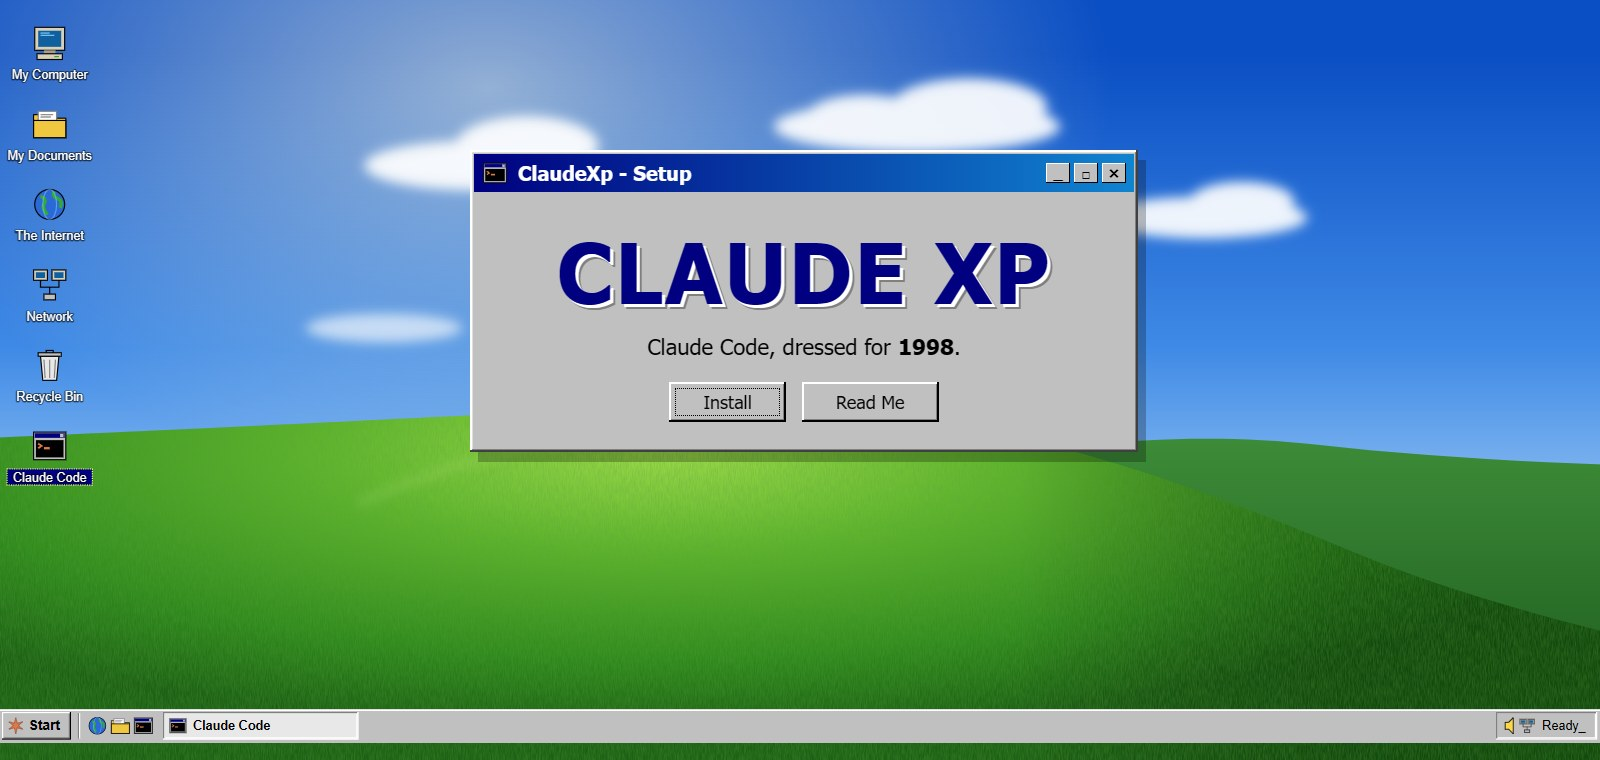
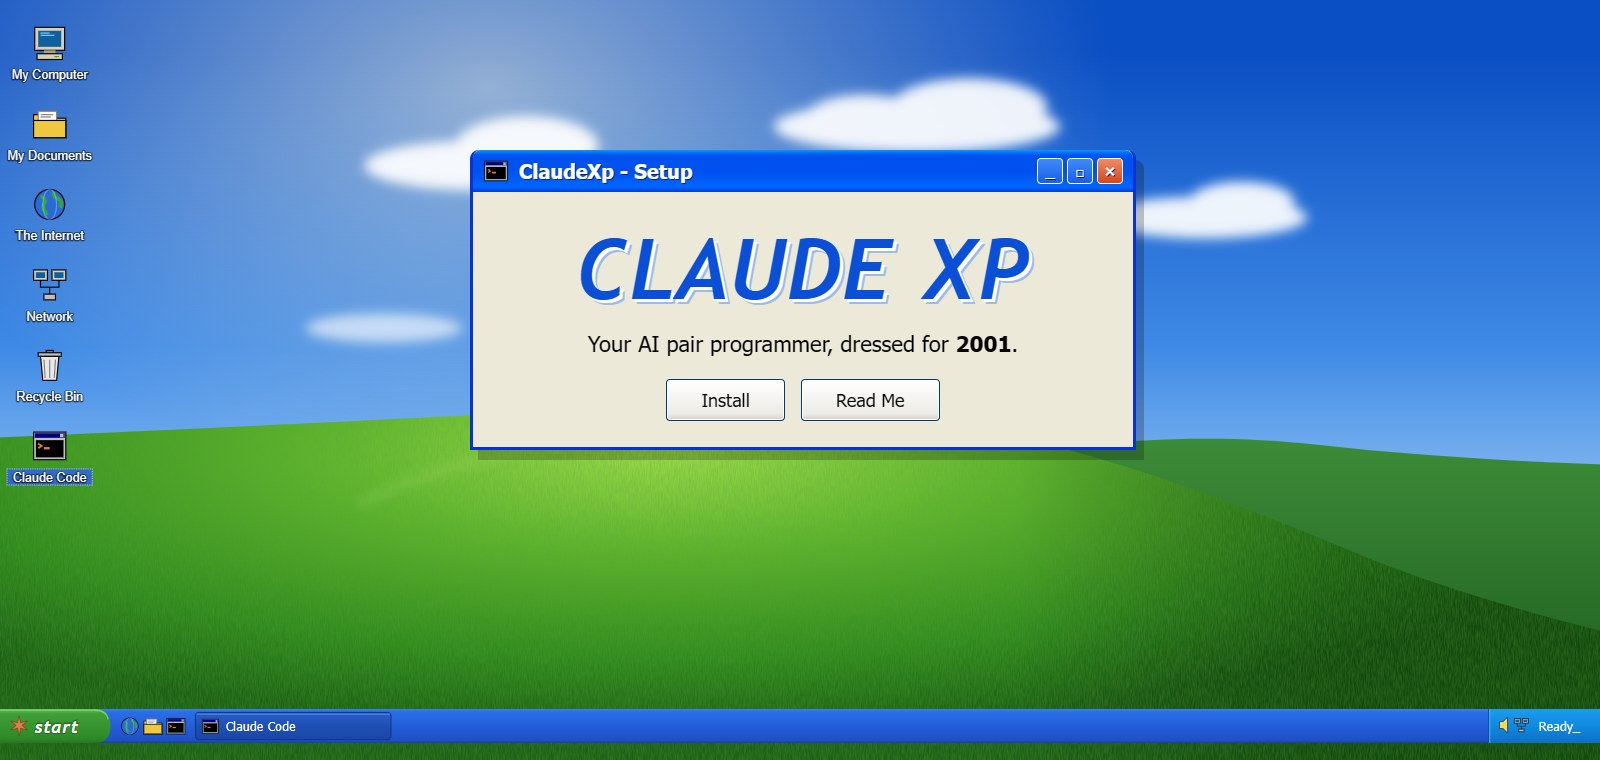
Restyle to an early-2000s desktop
Blue glossy taskbar with a rounded green start button and light-blue tray;
cream windows with rounded blue frames and red close boxes; rounded pale
buttons with blue selection; Blue / Olive Green / Silver / Royale schemes;
/win98-check is now /xp-check; new banner and README.

Changed region(s): [[0.2812, 0.1816, 0.7188, 0.6053], [0.0, 0.9079, 1.0, 0.9987], [0.0, 0.6053, 0.0625, 0.6658]]

diff --git a/hooks/look.ts b/hooks/look.ts
@@ -3,13 +3,14 @@ import type { ThemeSetArgs } from 'claude-code'
 import type { DeskScheme, DeskSettings, DeskWallpaper } from '../types'
 import { makeColors } from './make-colors.js'
 
-// Classic late-90s desktop color schemes. Light mode is the silver-chrome
-// scheme; dark mode is a shared "after hours" scheme, a CRT left on at night.
+// Desktop color schemes in the spirit of the early-2000s look: cream window
+// bodies with a blue, olive or silver accent. Light mode is this cream look;
+// dark mode is a shared "after hours" scheme, a monitor left on at night.
 const SCHEMES: Record<DeskScheme, { label: string; accent: string; s0: string; s1: string; s2: string }> = {
-  standard: { label: 'Standard', accent: '#000080', s0: '#c0c0c0', s1: '#d4d0c8', s2: '#f2f1ec' },
-  rose: { label: 'Rose', accent: '#800040', s0: '#cfb4b4', s1: '#ddc7c6', s2: '#f3e9e8' },
-  slate: { label: 'Slate', accent: '#2f4f6f', s0: '#a9b8c6', s1: '#c0ccd7', s2: '#e6ecf1' },
-  eggplant: { label: 'Eggplant', accent: '#4b2a6a', s0: '#b6aec2', s1: '#c9c2d3', s2: '#ece8f1' },
+  standard: { label: 'Blue (default)', accent: '#0a4fd6', s0: '#ece9d8', s1: '#f1efe2', s2: '#fbfaf5' },
+  rose: { label: 'Olive Green', accent: '#4f6b26', s0: '#e8ead8', s1: '#eff1e2', s2: '#fafbf5' },
+  slate: { label: 'Silver', accent: '#4a5a80', s0: '#e3e3ea', s1: '#ececf1', s2: '#f8f8fb' },
+  eggplant: { label: 'Royale', accent: '#1d3a9a', s0: '#e6e8f0', s1: '#eef0f6', s2: '#fafbfd' },
 }
 
 const SCHEME_KEYS = Object.keys(SCHEMES) as DeskScheme[]
@@ -70,7 +71,7 @@ export const lookFor = (s: DeskSettings): ThemeSetArgs => ({
   // Every wallpaper is a live scene drawn by the mod. The glass takes the app's
   // own panel color (dark in dark mode): thick enough, and frosted, that text
   // reads over the bright sky, thin enough that the meadow still shows.
-  backdrop: { scene: 'desktop98', glass: { blur: 6, opacity: 0.5 } },
+  backdrop: { scene: 'desktopxp', glass: { blur: 6, opacity: 0.5 } },
 })
 
 // ---------- the desktop scene: original pixel-art icons and a taskbar ----------
@@ -113,7 +114,7 @@ export const ICONS: Record<string, string> = {
 const iconAt = (name: string, x: number, y: number, label: string, selected = false): string => {
   const w = label.length * 6.2 + 6
   return `<g transform="translate(${x},${y})"><g transform="translate(22,0)">${ICONS[name]}</g>
-<rect x="${38 - w / 2}" y="36" width="${w}" height="14" fill="${selected ? '#000080' : 'none'}" ${selected ? 'stroke="#ffff80" stroke-dasharray="1 1"' : ''}/>
+<rect x="${38 - w / 2}" y="36" width="${w}" height="14" fill="${selected ? '#316ac5' : 'none'}" ${selected ? 'stroke="#9fb9e8" stroke-dasharray="1 1"' : ''}/>
 <text x="38" y="47" text-anchor="middle" fill="#fff" stroke="#000" stroke-opacity=".55" stroke-width="2.4" paint-order="stroke" stroke-linejoin="round" font-family="sans-serif" font-size="11">${label}</text></g>`
 }
 
@@ -214,16 +215,25 @@ export const sceneSvg = (s: DeskSettings): string => {
     : ''
   const taskbar = s.taskbar
     ? `<g class="pin-b"><g transform="translate(0,${H})">
-<rect x="-1000" y="-34" width="${W + 2000}" height="34" fill="#c0c0c0"/><rect x="-1000" y="-34" width="${W + 2000}" height="1" fill="#dfdfdf"/><rect x="-1000" y="-33" width="${W + 2000}" height="1" fill="#fff"/>
-<g class="pin-l"><g transform="translate(2,-31) scale(1.15)">
-<g>${bevel(0, 0, 60, 24)}<g transform="translate(4,4) scale(.5)">${ICONS.spark}</g><text x="23" y="16" font-family="sans-serif" font-weight="bold" font-size="12">Start</text></g>
-<rect x="66" y="1" width="1" height="22" fill="#808080"/><rect x="67" y="1" width="1" height="22" fill="#fff"/>
-<g transform="translate(74,3) scale(.56)">${ICONS.globe}</g><g transform="translate(94,3) scale(.56)">${ICONS.folder}</g><g transform="translate(114,3) scale(.56)">${ICONS.terminal}</g>
-<g transform="translate(140,0)">${bevel(0, 0, 170, 24, true, '#e8e8e8')}<g transform="translate(5,4) scale(.5)">${ICONS.terminal}</g><text x="26" y="16" font-family="sans-serif" font-weight="bold" font-size="11">Claude Code</text></g>
+<defs>
+<linearGradient id="tbar" x1="0" y1="0" x2="0" y2="1"><stop offset="0" stop-color="#3a81f3"/><stop offset=".08" stop-color="#2a6ee8"/><stop offset=".5" stop-color="#245edb"/><stop offset=".92" stop-color="#1f50c4"/><stop offset="1" stop-color="#1941a5"/></linearGradient>
+<linearGradient id="tstart" x1="0" y1="0" x2="0" y2="1"><stop offset="0" stop-color="#5fbf55"/><stop offset=".15" stop-color="#3f9f36"/><stop offset=".85" stop-color="#2f8a28"/><stop offset="1" stop-color="#2a7520"/></linearGradient>
+<linearGradient id="ttray" x1="0" y1="0" x2="0" y2="1"><stop offset="0" stop-color="#1c9cf0"/><stop offset=".5" stop-color="#0f8ae0"/><stop offset="1" stop-color="#0d6fc4"/></linearGradient>
+<linearGradient id="ttask" x1="0" y1="0" x2="0" y2="1"><stop offset="0" stop-color="#2a5fc9"/><stop offset=".5" stop-color="#1e4fb4"/><stop offset="1" stop-color="#1a47a6"/></linearGradient>
+</defs>
+<rect x="-1000" y="-34" width="${W + 2000}" height="34" fill="url(#tbar)"/>
+<g class="pin-l"><g transform="translate(0,-34) scale(1.15)">
+<path d="M0 0H82Q96 0 96 14.8Q96 29.6 82 29.6H0z" fill="url(#tstart)"/>
+<path d="M0 1H81Q93 1 94 9" stroke="#9be08f" stroke-opacity=".7" fill="none"/>
+<g transform="translate(7,5) scale(.6)">${ICONS.spark}</g>
+<text x="30" y="20.5" font-family="Trebuchet MS, Tahoma, sans-serif" font-style="italic" font-weight="bold" font-size="16" fill="#fff" stroke="#1b5a14" stroke-opacity=".6" stroke-width="1.6" paint-order="stroke">start</text>
+<g transform="translate(104,6) scale(.56)">${ICONS.globe}</g><g transform="translate(124,6) scale(.56)">${ICONS.folder}</g><g transform="translate(144,6) scale(.56)">${ICONS.terminal}</g>
+<g transform="translate(170,3)"><rect width="170" height="23.6" rx="3" fill="url(#ttask)" stroke="#0f3a8f"/><rect x="1" y="1" width="168" height="1" fill="#6a9cf0" opacity=".7"/><g transform="translate(5,4) scale(.5)">${ICONS.terminal}</g><text x="26" y="16" font-family="Tahoma, sans-serif" font-size="11" fill="#fff">Claude Code</text></g>
 </g></g>
-<g class="pin-r"><g transform="translate(${W - 104},-31) scale(1.15)">${bevel(0, 0, 88, 24, true)}
-<path d="M8 9h3l4-4v14l-4-4H8z" fill="#ffd84a" stroke="#000" stroke-width=".7"/><g transform="translate(20,5) scale(.44)">${ICONS.network}</g>
-<text x="40" y="16" font-family="sans-serif" font-size="11">Ready<tspan class="blink">_</tspan></text></g></g>
+<g class="pin-r"><g transform="translate(${W - 112},-34) scale(1.15)">
+<rect width="100" height="29.6" fill="url(#ttray)"/><rect width="1" height="29.6" fill="#0a4fa8"/><rect x="1" width="1" height="29.6" fill="#5cc0ff" opacity=".7"/>
+<path d="M10 11h3l4-4v14l-4-4h-3z" fill="#ffd84a" stroke="#1a3a6a" stroke-width=".7"/><g transform="translate(22,7) scale(.44)">${ICONS.network}</g>
+<text x="44" y="19" font-family="Tahoma, sans-serif" font-size="11" fill="#fff">Ready<tspan class="blink">_</tspan></text></g></g>
 </g></g>`
     : ''
   return `<svg xmlns="http://www.w3.org/2000/svg" viewBox="0 0 ${W} ${H}" preserveAspectRatio="xMidYMid slice">
@@ -241,7 +251,7 @@ export const previewSvg = (s: DeskSettings): string => {
     ? `<g transform="translate(36,20) scale(.4)">${ICONS.computer}</g><g transform="translate(36,38) scale(.4)">${ICONS.folder}</g><g transform="translate(36,56) scale(.4)">${ICONS.bin}</g>`
     : ''
   const bar = s.taskbar
-    ? '<rect x="32" y="108" width="136" height="8" fill="#c0c0c0"/><rect x="33" y="109" width="16" height="6" fill="#d4d0c8" stroke="#000" stroke-width=".5"/>'
+    ? '<rect x="32" y="108" width="136" height="8" fill="#245edb"/><path d="M32 108h16q4 0 4 4t-4 4H32z" fill="#3c9a2f"/><rect x="152" y="108" width="16" height="8" fill="#0f8ae0"/>'
     : ''
   return `<svg xmlns="http://www.w3.org/2000/svg" viewBox="0 0 200 156" width="200" height="156">
 <defs>${SKY}</defs>
@@ -252,7 +262,7 @@ ${
       : `<rect x="32" y="16" width="136" height="100" fill="${fill}" stroke="#606060"/>`
   }
 ${icons}
-<rect x="70" y="34" width="70" height="46" fill="${chromeOf(s.scheme)}" stroke="#000"/><rect x="71" y="35" width="68" height="8" fill="${accentOf(s.scheme)}"/>
+<rect x="70" y="34" width="70" height="46" rx="3" fill="${chromeOf(s.scheme)}" stroke="#0831d9"/><path d="M70 42v-5q0-3 3-3h64q3 0 3 3v5z" fill="${accentOf(s.scheme)}"/><rect x="131" y="35.5" width="6" height="5" rx="1" fill="#e0502a"/>
 <rect x="74" y="50" width="62" height="24" fill="#fff" stroke="#808080"/>
 ${bar}
 <rect x="150" y="122" width="8" height="3" fill="#2a2"/>

diff --git a/hooks/register.tsx b/hooks/register.tsx
@@ -30,19 +30,26 @@ const monitorMenu = atom({ plugin: 'claudexp', key: 'monitorMenu' } as const, nu
 const monitorView = atom({ plugin: 'claudexp', key: 'monitorView' } as const, { bars: true, log: true } as DeskMonitorView, { shape: 'view-1' })
 
 // Classic window chrome colors, fixed so the windows read the same in both modes.
-const SILVER = '#c0c0c0'
-const SHADOW = '#808080'
+// XP-style window chrome: cream bodies, blue frames, soft blue-gray edges.
+const SILVER = '#ece9d8'
+const SHADOW = '#7f9db9'
+const FRAME = '#0831d9'
+const BUTTON_EDGE = '#003c74'
+const BUTTON_FACE = '#fbfbf8'
+const SELECTED = '#316ac5'
+const CLOSE_RED = '#e0502a'
+const START_GREEN = '#3c9a2f'
 const WHITE = '#ffffff'
 const INK = '#000000'
 const NAVY = '#000080'
 
-// A Win98 push button drawn by the mod: black text on silver, navy when
-// active. The app's own button styles go pale in dark mode on these boxes.
+// An XP push button drawn by the mod: black text on a pale rounded face,
+// blue when active. The app's own button styles go pale in dark mode on these boxes.
 type WinButtonArgs = { id: string; label: string; isActive?: boolean; onPress: () => unknown }
 const winButton = (ui: ReturnType<EngineInterface['ui']['resolve']>, a: WinButtonArgs) => {
   const { Box, Text, Button } = ui
   return (
-    <Box key={a.id} backgroundColor={a.isActive ? NAVY : SILVER} borderStyle="single" borderColor={a.isActive ? NAVY : SHADOW} paddingX={1}>
+    <Box key={a.id} backgroundColor={a.isActive ? SELECTED : BUTTON_FACE} borderStyle="round" borderColor={a.isActive ? SELECTED : BUTTON_EDGE} paddingX={1}>
       <Button key={`${a.id}-b`} plain label={a.label} onPress={a.onPress}>
         <Text color={a.isActive ? WHITE : INK} weight={a.isActive ? 'bold' : undefined}>
           {a.label}
@@ -52,7 +59,21 @@ const winButton = (ui: ReturnType<EngineInterface['ui']['resolve']>, a: WinButto
   )
 }
 
-// Which surface last asked for the backdrop, for /win98-check.
+// The XP red close box for a window's title bar.
+const closeBox = (ui: ReturnType<EngineInterface['ui']['resolve']>, id: string, onPress: () => unknown) => {
+  const { Box, Text, Button } = ui
+  return (
+    <Box key={id} backgroundColor={CLOSE_RED} borderStyle="round" borderColor={WHITE} paddingX={1}>
+      <Button key={`${id}-b`} plain label="Close" onPress={onPress}>
+        <Text color={WHITE} weight="bold">
+          ✕
+        </Text>
+      </Button>
+    </Box>
+  )
+}
+
+// Which surface last asked for the backdrop, for /xp-check.
 let lastBackdrop: string | undefined
 
 const sanitize = (raw: unknown): DeskSettings => {
@@ -106,7 +127,7 @@ export const register: Register = on => {
     await $.command.register({ name: 'display', description: 'ClaudeXp: open Display Properties (wallpaper, color scheme, effects)' })
     await $.command.register({ name: 'sysmon', description: 'ClaudeXp: open the System Monitor window' })
     await $.command.register({ name: 'startmenu', description: 'ClaudeXp: toggle the Start menu above the prompt' })
-    await $.command.register({ name: 'win98-check', description: 'ClaudeXp: show which screens this session draws on and whether the theme reached them' })
+    await $.command.register({ name: 'xp-check', description: 'ClaudeXp: show which screens this session draws on and whether the theme reached them' })
 
     if (stored.startup) {
       void openMonitor($)
@@ -131,7 +152,7 @@ export const register: Register = on => {
     return { text: 'Start menu toggled.' }
   })
 
-  on('command.run', { command: 'win98-check' }, async $ => {
+  on('command.run', { command: 'xp-check' }, async $ => {
     const surfaces = await $.session.surfaces()
     const s = await read($, settings)
     const set = await $.theme.set(lookFor(s))
@@ -193,7 +214,7 @@ export const register: Register = on => {
     const icon = (name: string) => (isGraphic ? <Svg source={iconSvg(name, 16)} alt="" width={16} height={16} /> : null)
 
     const item = (key: string, name: string, label: string, run: () => Promise<void> | void) => (
-      <Box key={`row-${key}`} flexDirection="row" alignItems="center" gap="xs" paddingX={1} hover={{ backgroundColor: accentOf(s.scheme) }}>
+      <Box key={`row-${key}`} flexDirection="row" alignItems="center" gap="xs" paddingX={1} hover={{ backgroundColor: '#c1d2ee' }}>
         {icon(name)}
         <Button
           key={key}
@@ -203,14 +224,16 @@ export const register: Register = on => {
             await update($, isStartOpen, () => false)
             await run()
           }}
-        />
+        >
+          <Text color={INK}>{label}</Text>
+        </Button>
       </Box>
     )
 
     return (
       <Box flexDirection="column">
         {isOpen && (
-          <Box flexDirection="row" borderStyle="single" borderColor={INK} backgroundColor={SILVER}>
+          <Box flexDirection="row" borderStyle="round" borderColor={FRAME} backgroundColor={SILVER}>
             <Box backgroundColor={accentOf(s.scheme)} paddingX={1} justifyContent="flex-end">
               <Text color={WHITE} weight="bold">
                 ClaudeXp
@@ -231,7 +254,13 @@ export const register: Register = on => {
         )}
         <Box flexDirection="row" alignItems="center" gap="xs">
           {icon('spark')}
-          <Button key="start" label={isOpen ? 'Start ▾' : 'Start'} variant={isOpen ? 'primary' : 'secondary'} onPress={() => update($, isStartOpen, v => !v)} />
+          <Box key="start-box" backgroundColor={START_GREEN} borderStyle="round" borderColor={isOpen ? WHITE : '#2b7a22'} paddingX={1}>
+            <Button key="start" plain label="start" onPress={() => update($, isStartOpen, v => !v)}>
+              <Text color={WHITE} weight="bold" italic>
+                {isOpen ? 'start ▾' : 'start'}
+              </Text>
+            </Button>
+          </Box>
           <Button key="qs-monitor" label="System Monitor" dimColor onPress={() => openMonitor($)} />
           <Button key="qs-display" label="Display" dimColor onPress={() => openDisplay($)} />
         </Box>
@@ -280,7 +309,7 @@ export const register: Register = on => {
     )
 
     return (
-      <Box flexDirection="column" borderStyle="single" borderColor={INK} backgroundColor={SILVER}>
+      <Box flexDirection="column" borderStyle="round" borderColor={FRAME} backgroundColor={SILVER}>
         <Box flexDirection="row" backgroundColor={accentOf(s.scheme)} paddingX={1} alignItems="center" gap="xs">
           {isGraphic && <Svg source={iconSvg('monitor', 16)} alt="" width={16} height={16} />}
           <Box flexGrow={1}>
@@ -288,7 +317,7 @@ export const register: Register = on => {
               System Monitor
             </Text>
           </Box>
-          <Button key="mon-close" plain label="✕" onPress={() => $.ui.close({ id: MONITOR })} />
+          {closeBox(ui, 'mon-close', () => $.ui.close({ id: MONITOR }))}
         </Box>
         <Box flexDirection="row" paddingX={1} gap={1} alignItems="center">
           {menuButton('file', 'File')}
@@ -437,7 +466,7 @@ export const register: Register = on => {
       )
 
     return (
-      <Box flexDirection="column" borderStyle="single" borderColor={INK} backgroundColor={SILVER}>
+      <Box flexDirection="column" borderStyle="round" borderColor={FRAME} backgroundColor={SILVER}>
         <Box flexDirection="row" backgroundColor={accentOf(saved.scheme)} paddingX={1} alignItems="center" gap="xs">
           {isGraphic && <Svg source={iconSvg('display', 16)} alt="" width={16} height={16} />}
           <Box flexGrow={1}>
@@ -445,7 +474,7 @@ export const register: Register = on => {
               Display Properties
             </Text>
           </Box>
-          <Button key="dp-x" plain label="✕" onPress={() => $.ui.close({ id: DISPLAY })} />
+          {closeBox(ui, 'dp-x', () => $.ui.close({ id: DISPLAY }))}
         </Box>
         <Box flexDirection="row" paddingX={1} paddingTop={1} gap="xs">
           {tabButton('background', 'Background')}

diff --git a/README.md b/README.md
@@ -5,16 +5,16 @@
 <h1 align="center">🖥 ClaudeXp</h1>
 
 <p align="center">
-  <strong>IT'S NOT A BUG, IT'S A FEATURE OF 1998! 💾</strong>
+  <strong>IT'S NOT A BUG, IT'S A FEATURE OF 2001! 💿</strong>
 </p>
 
 <p align="center">
-  <a href="#-install"><img src="https://img.shields.io/badge/Claude%20Code-mod-000080?style=for-the-badge" alt="Claude Code mod"></a>
-  <img src="https://img.shields.io/badge/surface-desktop%20%7C%20terminal-008080?style=for-the-badge" alt="Desktop and terminal">
-  <img src="https://img.shields.io/badge/chrome-silver%20%23c0c0c0-c0c0c0?style=for-the-badge" alt="Silver chrome">
+  <a href="#-install"><img src="https://img.shields.io/badge/Claude%20Code-mod-0a4fd6?style=for-the-badge" alt="Claude Code mod"></a>
+  <img src="https://img.shields.io/badge/start-button-3c9a2f?style=for-the-badge" alt="Green start button">
+  <img src="https://img.shields.io/badge/windows-cream%20%23ece9d8-ece9d8?style=for-the-badge" alt="Cream windows">
 </p>
 
-**ClaudeXp** is a mod that dresses Claude Code like a late-90s desktop: silver beveled chrome, a rolling green meadow behind the chat, desktop icons, a taskbar with a blinking `Ready_`, a Start band above the prompt, a live **System Monitor** window and a proper **Display Properties** dialog.
+**ClaudeXp** is a mod that dresses Claude Code like an early-2000s desktop: a rolling green meadow behind the chat, desktop icons, a blue taskbar with a green `start` button and a blinking `Ready_`, rounded blue-framed windows with red close boxes, a start band above the prompt, a live **System Monitor** window and a proper **Display Properties** dialog.
 
 Everything is drawn by the mod itself: original pixel icons, an original meadow, no copied wallpapers.
 
@@ -38,7 +38,7 @@ claude plugin install claudexp --marketplace weihaoc168/ClaudeXp
 
 In the desktop app: click **+** next to the prompt box → **Plugins** → **Add marketplace** with `weihaoc168/ClaudeXp` → **Add plugin**.
 
-Answer `y` to add the marketplace and pick the **user** scope, and every new session boots into 1998.
+Answer `y` to add the marketplace and pick the **user** scope, and every new session boots into 2001.
 
 ## ✨ Features
 
@@ -46,10 +46,10 @@ Answer `y` to add the marketplace and pick the **user** scope, and every new ses
 | --- | --- |
 | 🌄 **Meadow desktop** | A live scene behind the chat: sky, drifting clouds, hills and grass, under a light glass veil so your text stays readable. Zoom it from 100% to 50% to see the whole picture. |
 | 🗂 **Desktop icons** | My Computer, My Documents, The Internet, Network, Recycle Bin and Claude Code, pinned to the top-left at any window shape. |
-| ▬ **Taskbar** | Start button, quick-launch tray, a Claude Code task and a clock-tray that blinks `Ready_`. |
-| 🟦 **Start band** | `Start`, `System Monitor` and `Display` buttons right above the prompt. The Start menu opens every window. |
-| 📊 **System Monitor** | A Win98-style window beside the chat counting each tool call, with usage bars, a scrolling call log and `[ok]` / `[!!]` results. Working **File / Edit / View** menus: clear the log, copy a summary, hide the bars or the log. |
-| 🎨 **Color schemes** | Standard, Rose, Slate and Eggplant in light mode, and a shared "After Hours" scheme in dark mode. |
+| ▬ **Taskbar** | A glossy blue bar with a rounded green `start` button, quick-launch icons, a Claude Code task and a light-blue tray that blinks `Ready_`. |
+| 🟢 **Start band** | A green `start` button, `System Monitor` and `Display` buttons right above the prompt. The Start menu opens every window. |
+| 📊 **System Monitor** | A window beside the chat, cream with a blue frame and a red close box, counting each tool call, with usage bars, a scrolling call log and `[ok]` / `[!!]` results. Working **File / Edit / View** menus: clear the log, copy a summary, hide the bars or the log. |
+| 🎨 **Color schemes** | Blue, Olive Green, Silver and Royale in light mode, and a shared "After Hours" scheme in dark mode. |
 | 💾 **Remembers you** | Your wallpaper, scheme and effects are kept across sessions. |
 
 ## ⌨ Commands
@@ -59,7 +59,7 @@ Answer `y` to add the marketplace and pick the **user** scope, and every new ses
 | `/display` | Display Properties |
 | `/sysmon` | System Monitor |
 | `/startmenu` | The Start menu |
-| `/win98-check` | Which screens the session draws on, and whether the theme reached them |
+| `/xp-check` | Which screens the session draws on, and whether the theme reached them |
 
 ## 🖼 Display Properties
 
